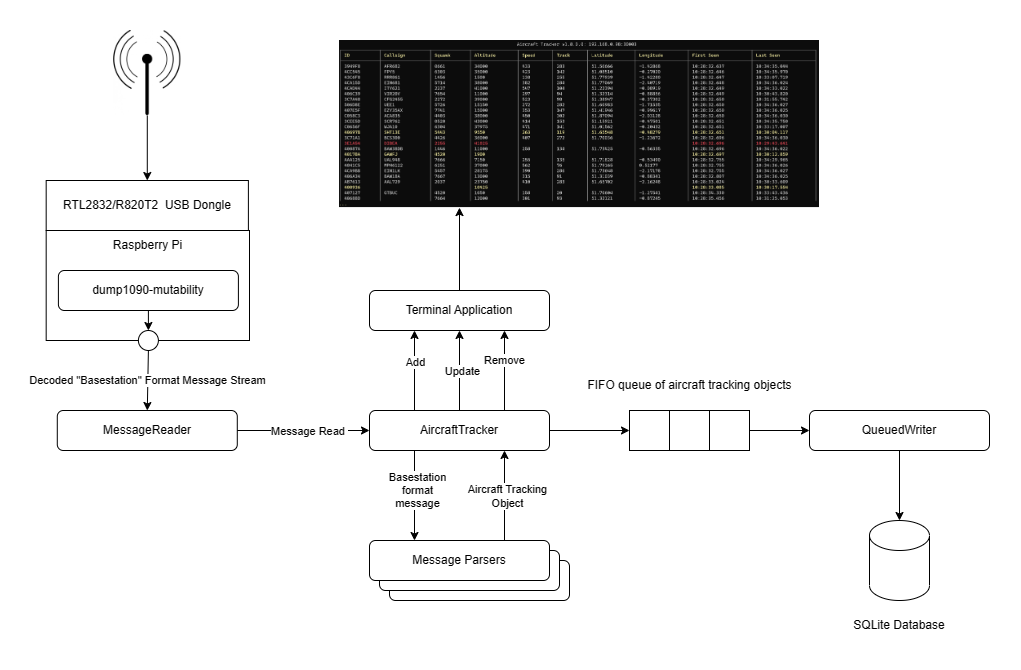
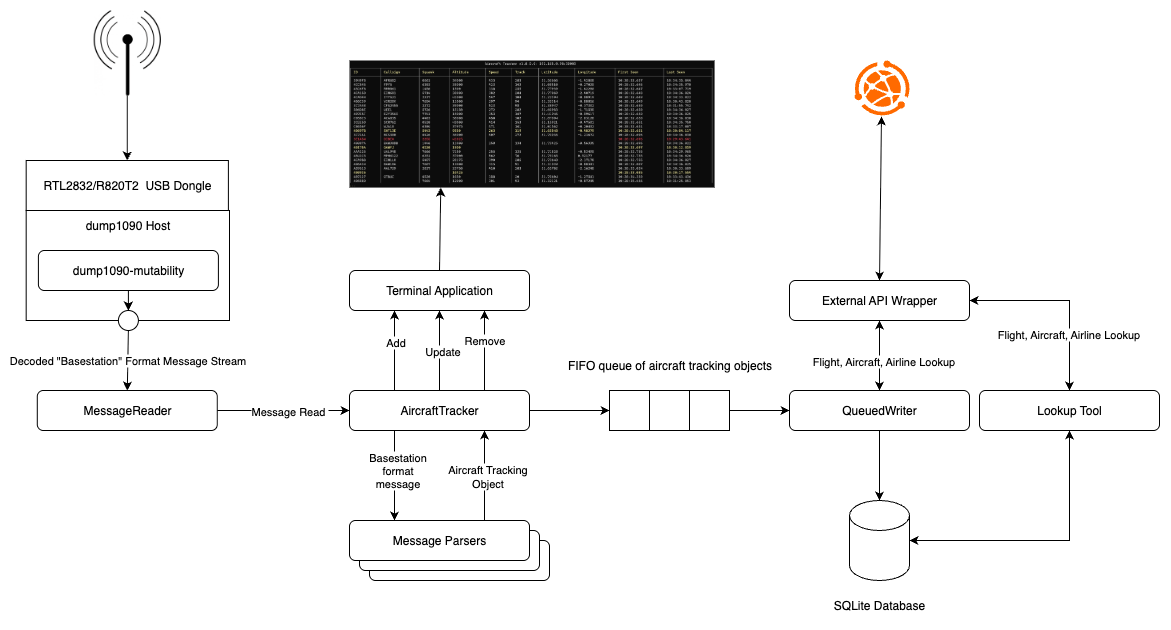
Updated the application schematic to include external API integrations

diff --git a/README.md b/README.md
@@ -13,14 +13,19 @@
 
 ![Application Schematic](Diagrams/application-schematic.png)
 
-- An RTL2832/R820T2 USB Dongle is plugged into the Raspberry Pi
-- The Raspberry Pi is running the [dump1090-mutability](https://github.com/adsb-related-code/dump1090-mutability) service to decode the data from the dongle
+- An RTL2832/R820T2 USB Dongle is plugged into the dump1090 host machine
+- The host is running the [dump1090-mutability](https://github.com/adsb-related-code/dump1090-mutability) service to decode the data from the dongle
 - One of the outputs is a decoded stream of messages in "[Basestation](http://woodair.net/sbs/article/barebones42_socket_data.htm)" format, that is exposed on a TCP port on the Pi
 - This stream is read by the MessageReader, that exposes an event used to notify subscribers when a new message arrives
 - The AircraftTracker subscribes to these events and passes each new message to the message parsers to have the information it contains extracted into an aircraft tracking object
 - The AircraftTracker enqueues each new tracking object for asynchronous writing to the SQLite database
 - It also exposes events to notify subscribers when aircraft are added, updated and removed
 - On a timed interval, the QueuedWriter processes pending writes from the the queue
+- External API integrations are supported for automatic/manual lookup of:
+  - Live and historical flight details
+  - Airline details
+  - Aircraft details
+  - METAR reporting
 
 ## Getting Started
 
@@ -28,7 +33,7 @@ Please see the [Wiki](https://github.com/davewalker5/ADS-B-BaseStationReader/wik
 
 ## Authors
 
-- **Dave Walker** - _Initial work_
+- **Dave Walker** - _Initial work_ - [LinkedIn](https://www.linkedin.com/in/davewalker5/)
 
 ## Feedback
 
